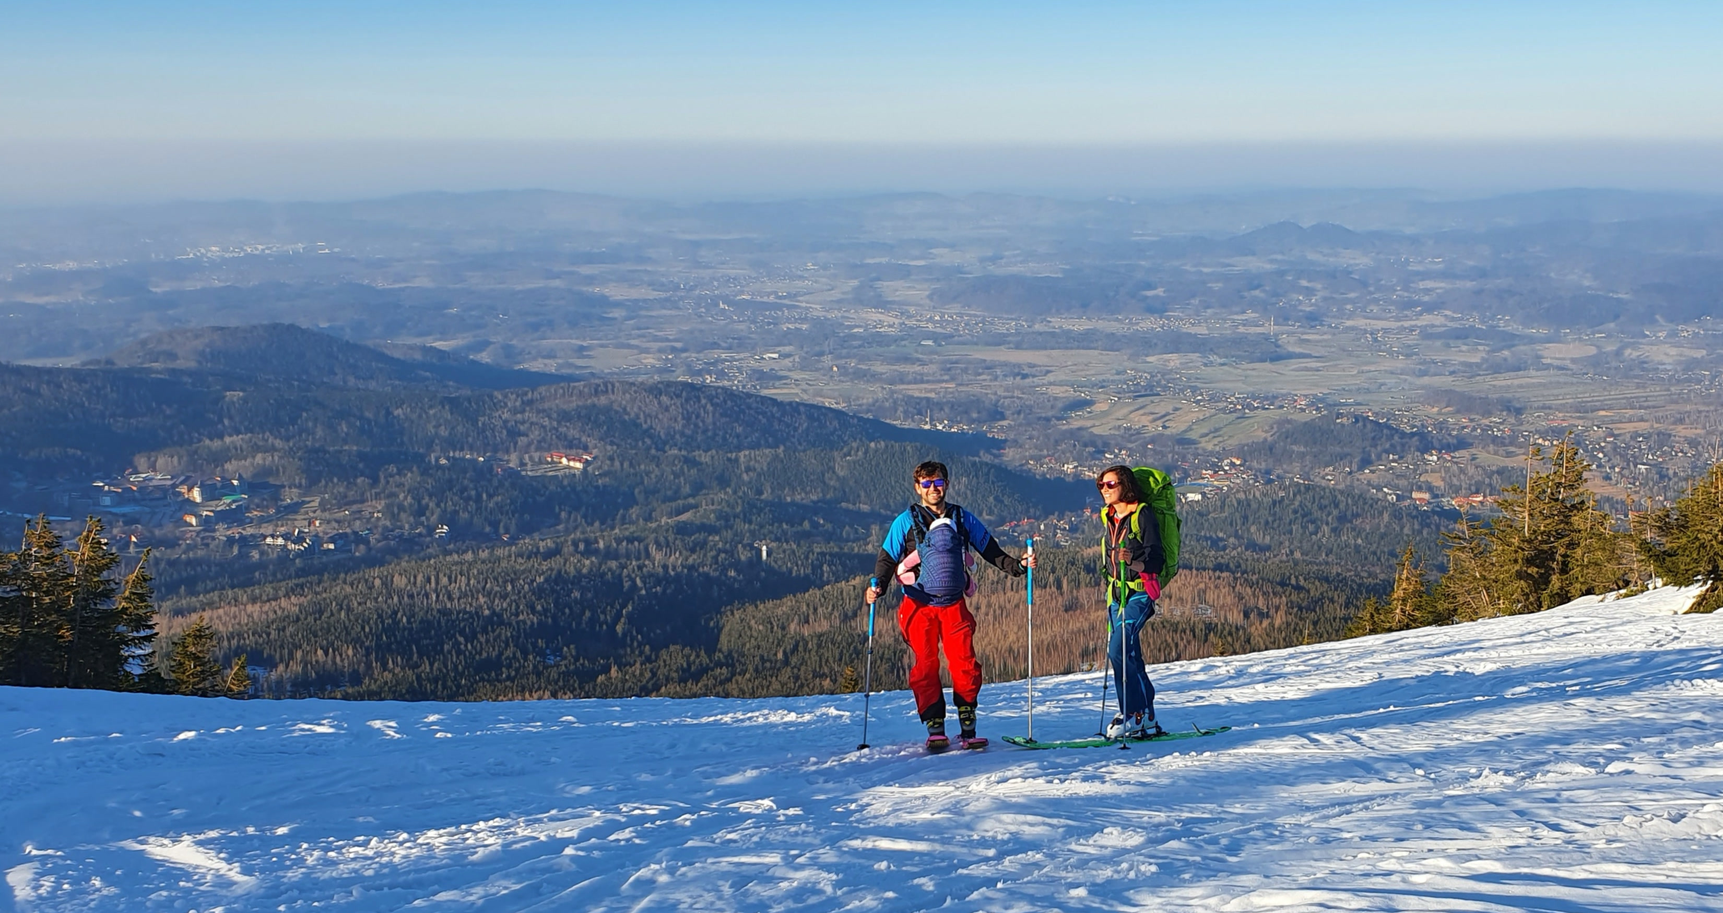
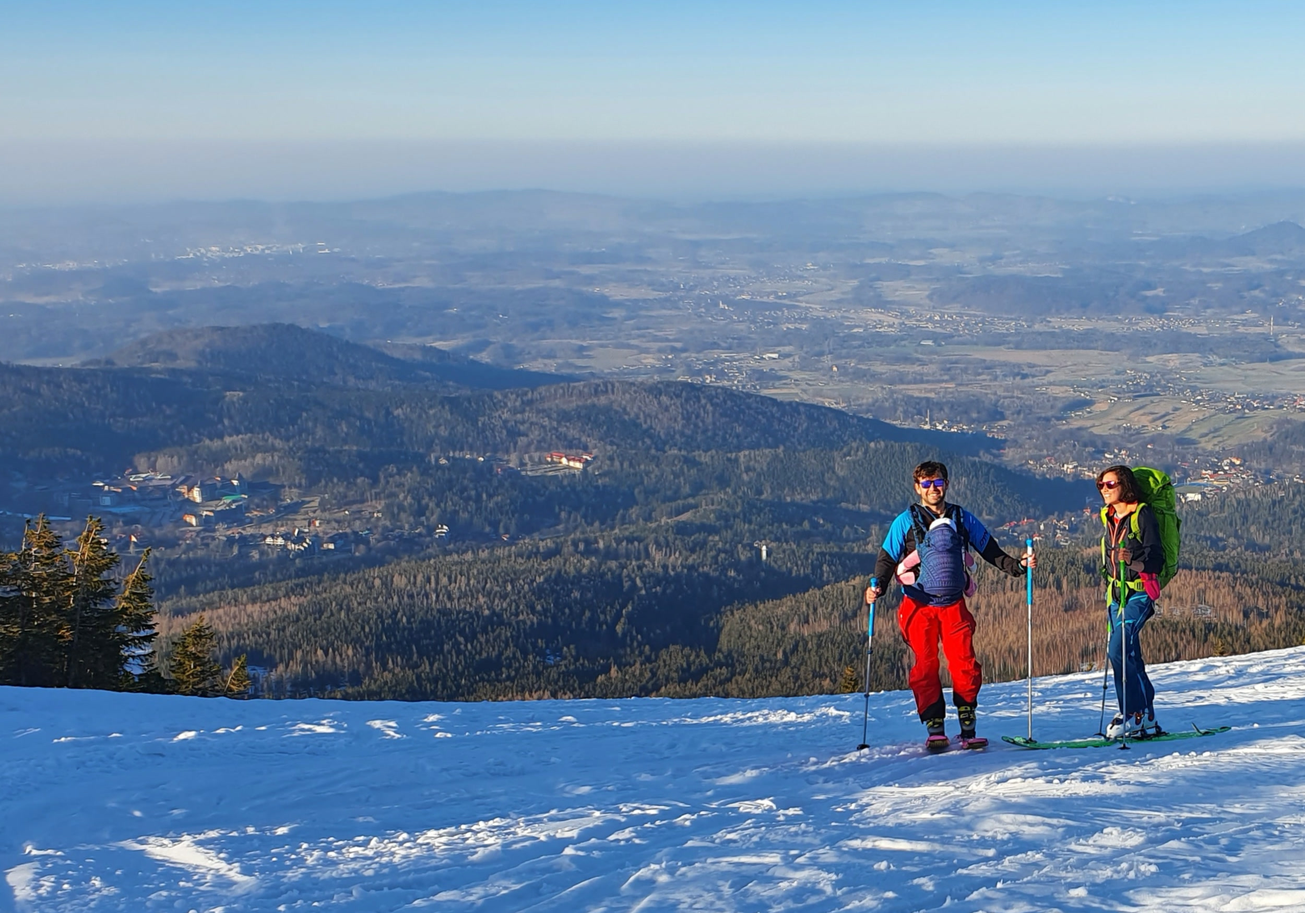
Adjust story photo crop and restore hero artwork

diff --git a/index.html b/index.html
@@ -7,15 +7,15 @@
 <title>DobraDecha — narty z charakterem</title>
 <style>
 @import url('https://fonts.googleapis.com/css2?family=Barlow+Condensed:wght@600;700;800;900&family=DM+Sans:wght@400;500;600;700&display=swap');
-:root{--heading-tracking:-.02em;--ink:#111;--paper:#f3f0e5;--pink:#ee0089;--orange:#f94600;--blue:#00c8ff;--line:rgba(17,17,17,.18)}*{box-sizing:border-box}html{scroll-behavior:smooth}body{margin:0;background:var(--paper);color:var(--ink);font-family:'DM Sans',sans-serif}a{color:inherit;text-decoration:none}.wrap{max-width:1240px;margin:auto;padding:0 5.5vw}.topbar{height:112px;border-bottom:1px solid var(--line);display:flex;align-items:center;justify-content:space-between;gap:32px;padding-left:0;padding-right:0}.brand{display:flex;align-items:center;gap:5px;white-space:nowrap;font:900 30px 'Barlow Condensed',sans-serif;letter-spacing:.015em;text-transform:uppercase}.brand-name{display:inline-flex;gap:0;color:var(--ink)}.brand-name i{font-style:normal;color:var(--ink)}.footer .brand-name,.footer .brand-name i{color:var(--paper)}.brand img{width:96px;height:50px;object-fit:contain;flex:none}.footer .brand img{width:78px;height:40px}.brand span{color:var(--pink)}nav{display:flex;align-items:center;gap:42px;margin-left:auto;font-size:15px;font-weight:700;letter-spacing:.025em}nav a:hover{color:var(--pink)}.nav-cta{background:var(--ink);color:white;padding:15px 21px;font-size:13px;font-weight:700;text-transform:uppercase;letter-spacing:.08em}.hero{min-height:660px;display:grid;grid-template-columns:1.02fr .98fr;align-items:center;padding:68px 0 74px;gap:25px;overflow:hidden}.eyebrow{display:flex;align-items:center;gap:10px;font-size:11px;font-weight:700;letter-spacing:.15em;text-transform:uppercase}.dot{width:9px;height:9px;background:var(--pink);border-radius:50%;box-shadow:0 0 0 5px #ff007f22}.hero h1{font:900 clamp(62px,9.2vw,126px)/.94 'Barlow Condensed',sans-serif;letter-spacing:var(--heading-tracking);text-transform:uppercase;margin:30px 0 25px}.hero h1 em{font-style:normal;color:var(--pink)}.hero p{max-width:450px;font-size:16px;line-height:1.7;color:#45433f}.actions{display:flex;gap:12px;margin-top:32px;align-items:center}.button{display:inline-flex;align-items:center;gap:24px;padding:16px 19px;background:var(--ink);color:white;font-size:12px;font-weight:700;text-transform:uppercase;letter-spacing:.07em}.button .arr{font-size:19px;color:var(--blue)}.text-link{font-size:12px;font-weight:700;border-bottom:1px solid var(--ink);padding:11px 0}.hero-art{position:relative;height:490px;background:var(--blue);overflow:hidden;clip-path:none}.hero-art:before{content:none}.art-label{position:absolute;z-index:1;top:24px;left:24px;font:800 12px 'Barlow Condensed';letter-spacing:.14em;text-transform:uppercase;background:var(--ink);color:white;padding:10px 12px}.hero-illustration{display:block;width:100%;height:100%;object-fit:cover;object-position:40% center}.ski{width:93px;height:430px;border:4px solid var(--ink);border-radius:60px 60px 19px 19px;position:relative;box-shadow:9px 12px 0 #111;overflow:hidden}.ski:nth-child(1){background:repeating-linear-gradient(0deg,#111 0 3px,transparent 3px 30px),linear-gradient(90deg,var(--paper) 0 49%,var(--pink) 49%)}.ski:nth-child(2){height:460px;background:repeating-linear-gradient(0deg,transparent 0 29px,#111 30px 33px),linear-gradient(90deg,var(--orange) 0 50%,var(--blue) 50%)}.ski:nth-child(3){background:repeating-linear-gradient(0deg,#111 0 3px,transparent 3px 30px),linear-gradient(90deg,var(--pink) 0 49%,var(--blue) 49%)}.ski b{position:absolute;top:50%;left:50%;transform:translate(-50%,-50%) rotate(90deg);font:900 24px 'Barlow Condensed';letter-spacing:.1em;background:var(--paper);padding:5px 8px}.art-sticker{position:absolute;z-index:2;bottom:23px;right:22px;background:var(--blue);width:95px;height:95px;border-radius:50%;display:grid;place-items:center;text-align:center;font:900 13px/1.05 'Barlow Condensed';transform:rotate(9deg);border:2px solid var(--ink)}.ticker{background:var(--ink);color:var(--paper);overflow:hidden;white-space:nowrap;padding:13px 0;font:700 14px 'Barlow Condensed';letter-spacing:.15em;text-transform:uppercase}.ticker span{color:var(--blue);padding:0 24px}.section{padding:110px 0}.section-head{display:flex;align-items:end;justify-content:space-between;gap:30px;margin-bottom:40px}.kicker{font-size:11px;letter-spacing:.15em;text-transform:uppercase;font-weight:700;color:#716e68}.section h2{font:900 clamp(45px,7vw,86px)/.9 'Barlow Condensed';letter-spacing:var(--heading-tracking);text-transform:uppercase;margin:12px 0 0}.section h2 em{font-style:normal;color:var(--pink)}.section-head p{max-width:390px;line-height:1.65;color:#555;font-size:14px}.section#narty .section-head{display:block}.section#narty .section-head p{max-width:650px;margin:22px 0 0}.cards{display:grid;grid-template-columns:repeat(3,1fr);gap:15px}.card{min-height:310px;padding:26px;display:flex;flex-direction:column;justify-content:space-between;position:relative;overflow:hidden}.card:nth-child(1){background:var(--pink)}.card:nth-child(2){background:var(--blue)}.card:nth-child(3){background:var(--orange)}.card-no{font:800 12px 'Barlow Condensed';letter-spacing:.14em}.card-art{font:900 86px/.8 'Barlow Condensed';letter-spacing:-.08em;position:absolute;right:22px;top:70px;transform:rotate(-14deg);opacity:.13}.card h3{font:900 30px/.95 'Barlow Condensed';letter-spacing:var(--heading-tracking);text-transform:uppercase;margin:0 0 8px}.card p{font-size:13px;line-height:1.5;max-width:255px;margin:0}.story{background:var(--blue);color:var(--paper);position:relative;isolation:isolate;overflow:hidden}.story:before{content:"";position:absolute;inset:0;z-index:-1;background-image:linear-gradient(90deg,var(--blue) 0%,var(--blue) 34%,rgba(0,200,255,.96) 37%,rgba(0,200,255,.5) 42%,rgba(0,200,255,0) 48%),url("skiers-background.jpg");background-position:left top,right center;background-size:100% 100%,auto 100%;background-repeat:no-repeat}.story .wrap{display:block;position:relative;z-index:1}.story .wrap>div:first-child{max-width:520px;background:var(--ink);padding:clamp(24px,3vw,42px)}.story h2{font:900 clamp(60px,8vw,100px)/.92 'Barlow Condensed';letter-spacing:var(--heading-tracking);text-transform:uppercase;margin:15px 0 25px}.story h2 em{font-style:normal;color:var(--blue)}.story-copy{max-width:460px;color:#c7c4bd;font-size:15px;line-height:1.8}.story-copy strong{color:white}.quote{font:700 26px/1.2 'Barlow Condensed';max-width:400px;margin:25px 0 0;color:var(--blue)}.contact{display:grid;grid-template-columns:1fr 1fr;gap:50px}.contact h2{margin-bottom:22px}.contact p{max-width:440px;line-height:1.7;color:#555}.contact-box{background:var(--blue);padding:35px;display:flex;flex-direction:column;justify-content:center;min-height:255px}.contact-box small{font-size:11px;font-weight:700;letter-spacing:.15em;text-transform:uppercase}.contact-box a{font:900 clamp(28px,4.3vw,52px) 'Barlow Condensed';margin:14px 0}.contact-box .fine{font-size:12px;line-height:1.6}.footer{background:var(--ink);color:white;padding:25px 0;font-size:11px}.footer .wrap{display:flex;align-items:center;justify-content:space-between}.footer a{color:var(--blue)}@media(max-width:1400px) and (min-width:1201px){.story:before{background-size:100% 100%,auto 100%}}@media(max-width:1200px){.story{background:var(--blue)}.story:before{display:none}}@media(max-width:800px){.wrap{padding:0 22px}.topbar{height:88px;gap:12px}.brand{font-size:22px;gap:4px}.brand img{width:68px;height:38px}.footer .brand img{width:58px;height:32px}nav{gap:14px;font-size:13px}nav a:not(.nav-cta){display:none}.hero{grid-template-columns:1fr;padding:55px 0 40px;gap:45px}.hero-art{height:390px}.ski{height:340px;width:72px}.ski:nth-child(2){height:370px}.hero h1{font-size:clamp(64px,14vw,100px);line-height:.98;letter-spacing:var(--heading-tracking)}.section{padding:75px 0}.section-head{display:block}.cards{grid-template-columns:1fr}.card{min-height:245px}.story{background:var(--blue)}.story:before{display:none}.story .wrap{display:block;padding-top:72px;padding-bottom:72px}.story .wrap>div:first-child{max-width:100%}.contact{grid-template-columns:1fr;gap:25px}.footer .wrap{gap:15px;flex-wrap:wrap}}@media(max-width:430px){.topbar{height:78px}.brand{font-size:20px;gap:3px}.brand img{width:56px;height:32px}.footer .brand img{width:48px;height:28px}.nav-cta{padding:10px;font-size:10px}.hero-art{height:330px}.ski{height:290px;width:58px}.ski:nth-child(2){height:315px}.hero h1{font-size:64px;line-height:1;letter-spacing:var(--heading-tracking)}.actions{align-items:flex-start;flex-direction:column}.footer .wrap{display:block}.footer .wrap>*{display:block;margin:8px 0}}
+:root{--heading-tracking:-.02em;--ink:#111;--paper:#f3f0e5;--pink:#ee0089;--orange:#f94600;--blue:#00c8ff;--line:rgba(17,17,17,.18)}*{box-sizing:border-box}html{scroll-behavior:smooth}body{margin:0;background:var(--paper);color:var(--ink);font-family:'DM Sans',sans-serif}a{color:inherit;text-decoration:none}.wrap{max-width:1240px;margin:auto;padding:0 5.5vw}.topbar{height:112px;border-bottom:1px solid var(--line);display:flex;align-items:center;justify-content:space-between;gap:32px;padding-left:0;padding-right:0}.brand{display:flex;align-items:center;gap:5px;white-space:nowrap;font:900 30px 'Barlow Condensed',sans-serif;letter-spacing:.015em;text-transform:uppercase}.brand-name{display:inline-flex;gap:0;color:var(--ink)}.brand-name i{font-style:normal;color:var(--ink)}.footer .brand-name,.footer .brand-name i{color:var(--paper)}.brand img{width:96px;height:50px;object-fit:contain;flex:none}.footer .brand img{width:78px;height:40px}.brand span{color:var(--pink)}nav{display:flex;align-items:center;gap:42px;margin-left:auto;font-size:15px;font-weight:700;letter-spacing:.025em}nav a:hover{color:var(--pink)}.nav-cta{background:var(--ink);color:white;padding:15px 21px;font-size:13px;font-weight:700;text-transform:uppercase;letter-spacing:.08em}.hero{min-height:660px;display:grid;grid-template-columns:1.02fr .98fr;align-items:center;padding:68px 0 74px;gap:25px;overflow:hidden}.eyebrow{display:flex;align-items:center;gap:10px;font-size:11px;font-weight:700;letter-spacing:.15em;text-transform:uppercase}.dot{width:9px;height:9px;background:var(--pink);border-radius:50%;box-shadow:0 0 0 5px #ff007f22}.hero h1{font:900 clamp(62px,9.2vw,126px)/.94 'Barlow Condensed',sans-serif;letter-spacing:var(--heading-tracking);text-transform:uppercase;margin:30px 0 25px}.hero h1 em{font-style:normal;color:var(--pink)}.hero p{max-width:450px;font-size:16px;line-height:1.7;color:#45433f}.actions{display:flex;gap:12px;margin-top:32px;align-items:center}.button{display:inline-flex;align-items:center;gap:24px;padding:16px 19px;background:var(--ink);color:white;font-size:12px;font-weight:700;text-transform:uppercase;letter-spacing:.07em}.button .arr{font-size:19px;color:var(--blue)}.text-link{font-size:12px;font-weight:700;border-bottom:1px solid var(--ink);padding:11px 0}.hero-art{position:relative;height:490px;background:var(--blue);overflow:hidden;clip-path:none}.hero-art:before{content:none}.art-label{position:absolute;z-index:1;top:24px;left:24px;font:800 12px 'Barlow Condensed';letter-spacing:.14em;text-transform:uppercase;background:var(--ink);color:white;padding:10px 12px}.hero-illustration{display:block;width:100%;height:100%;object-fit:cover}.ski{width:93px;height:430px;border:4px solid var(--ink);border-radius:60px 60px 19px 19px;position:relative;box-shadow:9px 12px 0 #111;overflow:hidden}.ski:nth-child(1){background:repeating-linear-gradient(0deg,#111 0 3px,transparent 3px 30px),linear-gradient(90deg,var(--paper) 0 49%,var(--pink) 49%)}.ski:nth-child(2){height:460px;background:repeating-linear-gradient(0deg,transparent 0 29px,#111 30px 33px),linear-gradient(90deg,var(--orange) 0 50%,var(--blue) 50%)}.ski:nth-child(3){background:repeating-linear-gradient(0deg,#111 0 3px,transparent 3px 30px),linear-gradient(90deg,var(--pink) 0 49%,var(--blue) 49%)}.ski b{position:absolute;top:50%;left:50%;transform:translate(-50%,-50%) rotate(90deg);font:900 24px 'Barlow Condensed';letter-spacing:.1em;background:var(--paper);padding:5px 8px}.art-sticker{position:absolute;z-index:2;bottom:23px;right:22px;background:var(--blue);width:95px;height:95px;border-radius:50%;display:grid;place-items:center;text-align:center;font:900 13px/1.05 'Barlow Condensed';transform:rotate(9deg);border:2px solid var(--ink)}.ticker{background:var(--ink);color:var(--paper);overflow:hidden;white-space:nowrap;padding:13px 0;font:700 14px 'Barlow Condensed';letter-spacing:.15em;text-transform:uppercase}.ticker span{color:var(--blue);padding:0 24px}.section{padding:110px 0}.section-head{display:flex;align-items:end;justify-content:space-between;gap:30px;margin-bottom:40px}.kicker{font-size:11px;letter-spacing:.15em;text-transform:uppercase;font-weight:700;color:#716e68}.section h2{font:900 clamp(45px,7vw,86px)/.9 'Barlow Condensed';letter-spacing:var(--heading-tracking);text-transform:uppercase;margin:12px 0 0}.section h2 em{font-style:normal;color:var(--pink)}.section-head p{max-width:390px;line-height:1.65;color:#555;font-size:14px}.section#narty .section-head{display:block}.section#narty .section-head p{max-width:650px;margin:22px 0 0}.cards{display:grid;grid-template-columns:repeat(3,1fr);gap:15px}.card{min-height:310px;padding:26px;display:flex;flex-direction:column;justify-content:space-between;position:relative;overflow:hidden}.card:nth-child(1){background:var(--pink)}.card:nth-child(2){background:var(--blue)}.card:nth-child(3){background:var(--orange)}.card-no{font:800 12px 'Barlow Condensed';letter-spacing:.14em}.card-art{font:900 86px/.8 'Barlow Condensed';letter-spacing:-.08em;position:absolute;right:22px;top:70px;transform:rotate(-14deg);opacity:.13}.card h3{font:900 30px/.95 'Barlow Condensed';letter-spacing:var(--heading-tracking);text-transform:uppercase;margin:0 0 8px}.card p{font-size:13px;line-height:1.5;max-width:255px;margin:0}.story{background:var(--blue);color:var(--paper);position:relative;isolation:isolate;overflow:hidden}.story:before{content:"";position:absolute;inset:0;z-index:-1;background-image:linear-gradient(90deg,var(--blue) 0%,var(--blue) 34%,rgba(0,200,255,.96) 37%,rgba(0,200,255,.5) 42%,rgba(0,200,255,0) 48%),url("skiers-background.jpg");background-position:left top,right center;background-size:100% 100%,auto 125%;background-repeat:no-repeat}.story .wrap{display:block;position:relative;z-index:1}.story .wrap>div:first-child{max-width:520px;background:var(--ink);padding:clamp(24px,3vw,42px)}.story h2{font:900 clamp(60px,8vw,100px)/.92 'Barlow Condensed';letter-spacing:var(--heading-tracking);text-transform:uppercase;margin:15px 0 25px}.story h2 em{font-style:normal;color:var(--blue)}.story-copy{max-width:460px;color:#c7c4bd;font-size:15px;line-height:1.8}.story-copy strong{color:white}.quote{font:700 26px/1.2 'Barlow Condensed';max-width:400px;margin:25px 0 0;color:var(--blue)}.contact{display:grid;grid-template-columns:1fr 1fr;gap:50px}.contact h2{margin-bottom:22px}.contact p{max-width:440px;line-height:1.7;color:#555}.contact-box{background:var(--blue);padding:35px;display:flex;flex-direction:column;justify-content:center;min-height:255px}.contact-box small{font-size:11px;font-weight:700;letter-spacing:.15em;text-transform:uppercase}.contact-box a{font:900 clamp(28px,4.3vw,52px) 'Barlow Condensed';margin:14px 0}.contact-box .fine{font-size:12px;line-height:1.6}.footer{background:var(--ink);color:white;padding:25px 0;font-size:11px}.footer .wrap{display:flex;align-items:center;justify-content:space-between}.footer a{color:var(--blue)}@media(max-width:1400px) and (min-width:1201px){.story:before{background-size:100% 100%,auto 100%}}@media(max-width:1200px){.story{background:var(--blue)}.story:before{display:none}}@media(max-width:800px){.wrap{padding:0 22px}.topbar{height:88px;gap:12px}.brand{font-size:22px;gap:4px}.brand img{width:68px;height:38px}.footer .brand img{width:58px;height:32px}nav{gap:14px;font-size:13px}nav a:not(.nav-cta){display:none}.hero{grid-template-columns:1fr;padding:55px 0 40px;gap:45px}.hero-art{height:390px}.ski{height:340px;width:72px}.ski:nth-child(2){height:370px}.hero h1{font-size:clamp(64px,14vw,100px);line-height:.98;letter-spacing:var(--heading-tracking)}.section{padding:75px 0}.section-head{display:block}.cards{grid-template-columns:1fr}.card{min-height:245px}.story{background:var(--blue)}.story:before{display:none}.story .wrap{display:block;padding-top:72px;padding-bottom:72px}.story .wrap>div:first-child{max-width:100%}.contact{grid-template-columns:1fr;gap:25px}.footer .wrap{gap:15px;flex-wrap:wrap}}@media(max-width:430px){.topbar{height:78px}.brand{font-size:20px;gap:3px}.brand img{width:56px;height:32px}.footer .brand img{width:48px;height:28px}.nav-cta{padding:10px;font-size:10px}.hero-art{height:330px}.ski{height:290px;width:58px}.ski:nth-child(2){height:315px}.hero h1{font-size:64px;line-height:1;letter-spacing:var(--heading-tracking)}.actions{align-items:flex-start;flex-direction:column}.footer .wrap{display:block}.footer .wrap>*{display:block;margin:8px 0}}
 
 .location{background:var(--ink);color:var(--paper)}.location-grid{display:grid;grid-template-columns:.8fr 1.2fr;gap:38px;align-items:stretch}.location-info h2{margin:12px 0 24px}.location-info h2 em{color:var(--orange);font-style:normal}.location-info address{font-style:normal;line-height:1.8;color:#c7c4bd}.location-info a{color:var(--orange);font-weight:700}.location-info .location-links{display:grid;gap:12px;margin-top:22px}.location-map{min-height:370px;border:0;background:var(--ink)}.location-map>a{display:block;position:relative}.location-map img{display:block;width:100%;height:auto;aspect-ratio:2/1;object-fit:cover;filter:grayscale(1)}.map-pin{position:absolute;left:75.5%;top:50%;width:30px;height:30px;border:3px solid var(--ink);border-radius:50% 50% 50% 0;background:var(--orange);transform:translate(-50%,-85%) rotate(-45deg);box-shadow:0 2px 5px #1118}.map-pin:after{content:"";position:absolute;width:8px;height:8px;left:8px;top:8px;background:var(--paper);border-radius:50%}.map-credit{display:block;padding:7px 10px;background:var(--ink);color:var(--paper);font-size:11px}.map-credit a{color:var(--orange);text-decoration:underline}@media(max-width:800px){.location-grid{grid-template-columns:1fr;gap:28px}.location-map,.location-map img{min-height:300px}}
 </style></head>
 <body>
 <header class="wrap topbar"><a class="brand" href="#start" aria-label="DobraDecha, strona główna"><img src="dobradecha-logo.svg" alt=""><span class="brand-name"><i>Dobra</i>Decha</span></a><nav aria-label="Nawigacja"><a href="#narty">Narty</a><a href="#historia">Nasza pasja</a><a class="nav-cta" href="#kontakt">Zróbmy Twoje narty <b>↗</b></a></nav></header>
-<main id="start"><section class="wrap hero"><div><div class="eyebrow"><i class="dot"></i> Ręcznie robione w Karkonoszach</div><h1>Nie idź<br>na <em>skróty.</em><br>Jedź po<br>swojemu.</h1><p>Customowe narty z drewna, robione z sercem w małym warsztacie u stóp Karkonoszy. Twoja linia. Twoje kolory. Twoja decha.</p><div class="actions"><a class="button" href="#kontakt">Zacznijmy od rozmowy <span class="arr">↗</span></a><a class="text-link" href="#narty">Poznaj DobraDechę ↓</a></div></div><div class="hero-art" aria-label="Kolorowe narty DobraDecha"><div class="art-label">Drewno / śnieg / charakter</div><img class="hero-illustration" src="freestyle-hero.jpg" alt="Freestyle narciarz wykonujący skok na tle zaśnieżonego stoku"><div class="art-sticker">MADE<br>IN<br>KARKONOSZE</div></div></section>
+<main id="start"><section class="wrap hero"><div><div class="eyebrow"><i class="dot"></i> Ręcznie robione w Karkonoszach</div><h1>Nie idź<br>na <em>skróty.</em><br>Jedź po<br>swojemu.</h1><p>Customowe narty z drewna, robione z sercem w małym warsztacie u stóp Karkonoszy. Twoja linia. Twoje kolory. Twoja decha.</p><div class="actions"><a class="button" href="#kontakt">Zacznijmy od rozmowy <span class="arr">↗</span></a><a class="text-link" href="#narty">Poznaj DobraDechę ↓</a></div></div><div class="hero-art" aria-label="Kolorowe narty DobraDecha"><div class="art-label">Drewno / śnieg / charakter</div><img class="hero-illustration" src="ski-jump-illustration.svg" alt="Freestyle narciarz w locie nad stokiem"><div class="art-sticker">MADE<br>IN<br>KARKONOSZE</div></div></section>
 <section id="narty" class="wrap section"><div class="section-head"><div><div class="kicker">Rzemiosło, które rusza w góry</div><h2>Twoje narty.<br><em>Twoje zasady.</em></h2></div><p>Każda para zaczyna się od rozmowy. O tym, jak jeździsz, gdzie lubisz skręcić i co chcesz zobaczyć pod stopami.</p></div><div class="cards"><article class="card"><span class="card-no">01 / DREWNO</span><div class="card-art">WOOD</div><div><h3>Serce z drewna</h3><p>Naturalny rdzeń i rzemieślnicza robota z warsztatu. Każda para przechodzi przez moje ręce.</p></div></article><article class="card"><span class="card-no">02 / CHARAKTER</span><div class="card-art">COLOR</div><div><h3>Kolor bez hamulców</h3><p>Wyrazista grafika, która nie ginie w tłumie. Narty mogą wyglądać dokładnie tak, jak chcesz.</p></div></article><article class="card"><span class="card-no">03 / DOPASOWANIE</span><div class="card-art">RIDE</div><div><h3>Pod Twój styl</h3><p>Dobieramy kierunek projektu do Ciebie i Twojej jazdy. Bez katalogowych kompromisów.</p></div></article></div></section>
 <section id="historia" class="story"><div class="wrap section"><div><div class="kicker" style="color:#aaa">Tu zaczyna się każda para</div><h2>Warsztat.<br>Góry.<br><em>Pasja.</em></h2><p class="story-copy">Jestem instruktorem narciarstwa, stolarzem z wyboru oraz doświadczonym inżynierem konstruktorem z zawodu i wykształcenia. Łączę wiedzę techniczną z miłością do jazdy i pracy w drewnie. DobraDecha powstaje w moim warsztacie w <strong>Mysłakowicach, koło Jeleniej Góry</strong> — u stóp Karkonoszy, gdzie każda para zaczyna się od pasji.</p><p class="quote">„Dobra decha ma dawać frajdę, zanim jeszcze spadnie pierwszy śnieg.”</p></div></div></section>
-<section id="kontakt" class="wrap section contact"><div><div class="kicker">Zróbmy coś dobrego</div><h2>Masz pomysł?<br><em>Dawaj znać.</em></h2><p>Opowiedz, jak jeździsz i jakie narty chodzą Ci po głowie. Pogadamy o kształcie, charakterze i kolorach.</p></div><div class="contact-box"><small>Napisz do warsztatu</small><a href="mailto:adam@dobradecha.pl">adam@dobradecha.pl ↗</a><div class="fine">Mysłakowice · koło Jeleniej Góry<br>Warsztat w Karkonoszach</div></div></section><section id="lokalizacja" class="location"><div class="wrap section location-grid"><div class="location-info"><div class="kicker" style="color:#aaa">Odwiedź warsztat</div><h2>Tu robimy<br><em>DobraDechę.</em></h2><address><strong>ul. Karminowa 7</strong><br>58-533 Mysłakowice<br>Polska</address><div class="location-links"><a href="mailto:adam@dobradecha.pl">adam@dobradecha.pl</a><a href="tel:+48783216452">+48 783 216 452</a><a href="https://www.google.com/maps/search/?api=1&query=ul.+Karminowa+7,+58-533+Mys%C5%82akowice" target="_blank" rel="noopener">Otwórz trasę w Google Maps ↗</a></div></div><div class="location-map"><a href="https://www.openstreetmap.org/#map=17/50.8319268/15.7899344" target="_blank" rel="noopener" aria-label="Otwórz mapę w OpenStreetMap"><img src="mapa-openstreetmap.png" alt="Statyczna mapa OpenStreetMap okolicy ulicy Karminowej w Mysłakowicach"><span class="map-pin" aria-hidden="true"></span></a><small class="map-credit">© <a href="https://www.openstreetmap.org/copyright" target="_blank" rel="noopener">OpenStreetMap contributors</a></small></div></div></section></main>
+<section id="kontakt" class="wrap section contact"><div><div class="kicker">Zróbmy coś dobrego</div><h2>Masz pomysł?<br><em>Dawaj znać.</em></h2><p>Opowiedz, jak jeździsz i jakie narty chodzą Ci po głowie. Pogadamy o kształcie, charakterze i kolorach.</p></div><div class="contact-box"><small>Napisz do warsztatu</small><a href="mailto:adam@dobradecha.pl">adam@dobradecha.pl ↗</a><div class="fine">Mysłakowice · koło Jeleniej Góry<br>Warsztat w Karkonoszach</div></div></section><section id="lokalizacja" class="location"><div class="wrap section location-grid"><div class="location-info"><div class="kicker" style="color:#aaa">Kontakt</div><h2>Tu robimy<br><em>DobrąDechę.</em></h2><address><strong>ul. Karminowa 7</strong><br>58-533 Mysłakowice<br>Polska</address><div class="location-links"><a href="mailto:adam@dobradecha.pl">adam@dobradecha.pl</a><a href="tel:+48783216452">+48 783 216 452</a><a href="https://www.google.com/maps/search/?api=1&query=ul.+Karminowa+7,+58-533+Mys%C5%82akowice" target="_blank" rel="noopener">Otwórz trasę w Google Maps ↗</a></div></div><div class="location-map"><a href="https://www.openstreetmap.org/#map=17/50.8319268/15.7899344" target="_blank" rel="noopener" aria-label="Otwórz mapę w OpenStreetMap"><img src="mapa-openstreetmap.png" alt="Statyczna mapa OpenStreetMap okolicy ulicy Karminowej w Mysłakowicach"><span class="map-pin" aria-hidden="true"></span></a><small class="map-credit">© <a href="https://www.openstreetmap.org/copyright" target="_blank" rel="noopener">OpenStreetMap contributors</a></small></div></div></section></main>
 <footer class="footer"><div class="wrap"><a class="brand" href="#start"><img src="dobradecha-logo.svg" alt=""><span class="brand-name"><i>Dobra</i>Decha</span></a><span>Ręcznie robione narty z drewna · Karkonosze</span><span>© DobraDecha 2026</span></div></footer>
 </body></html>
